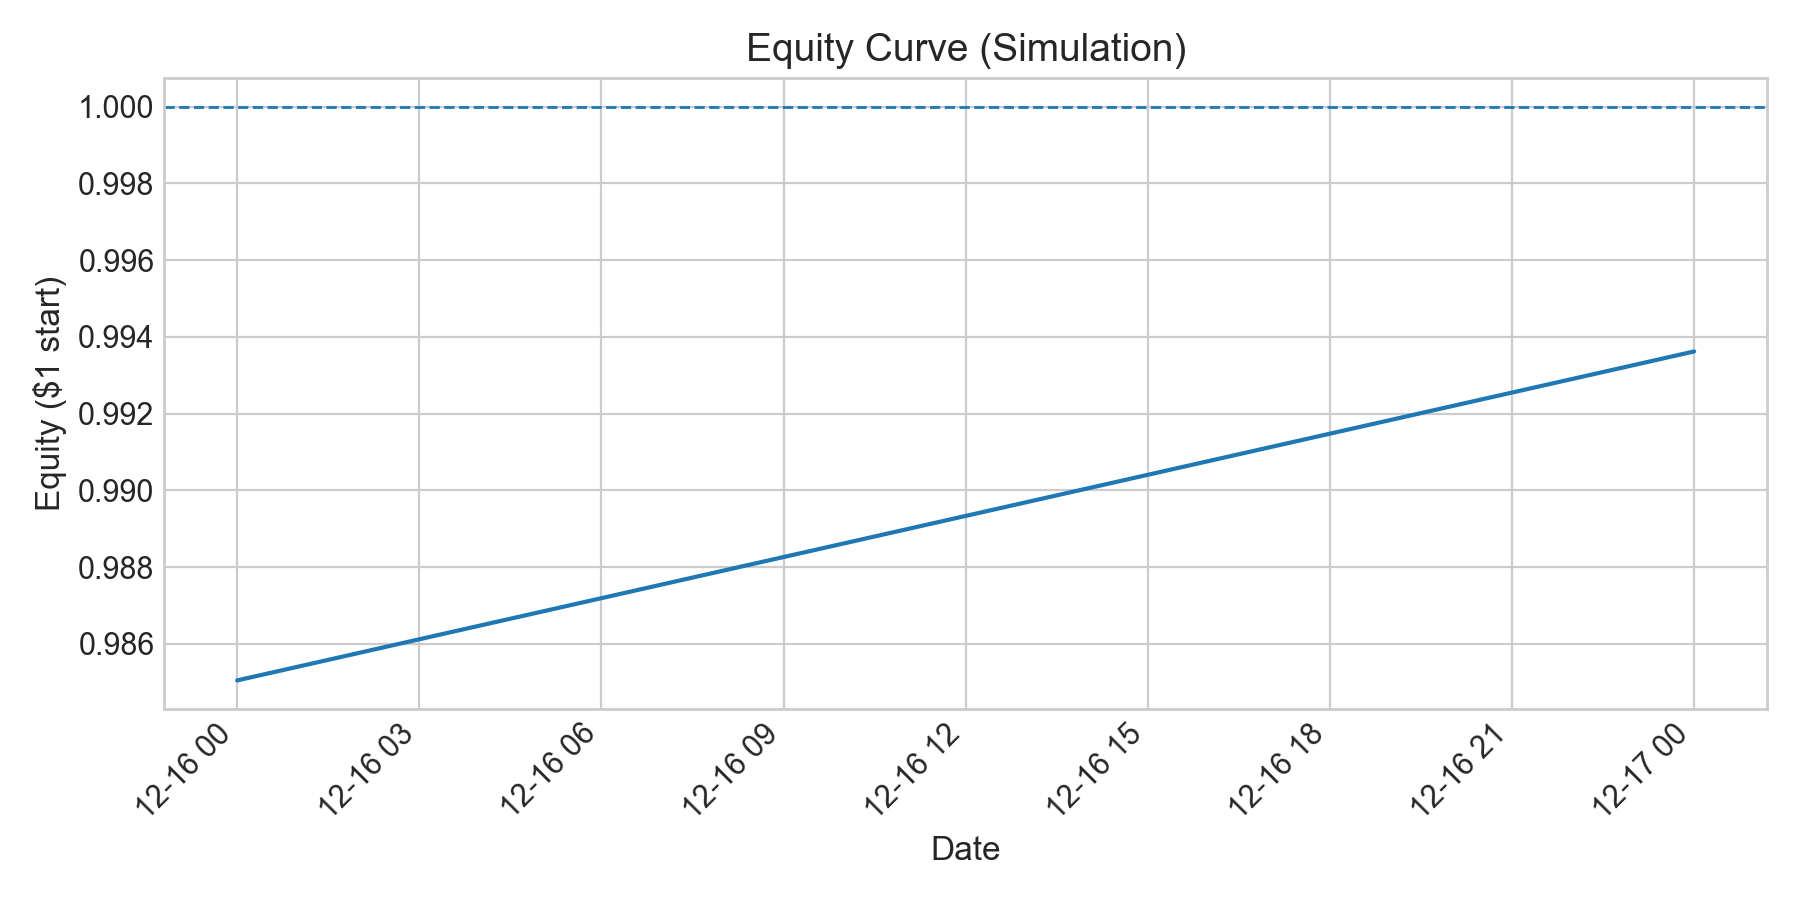
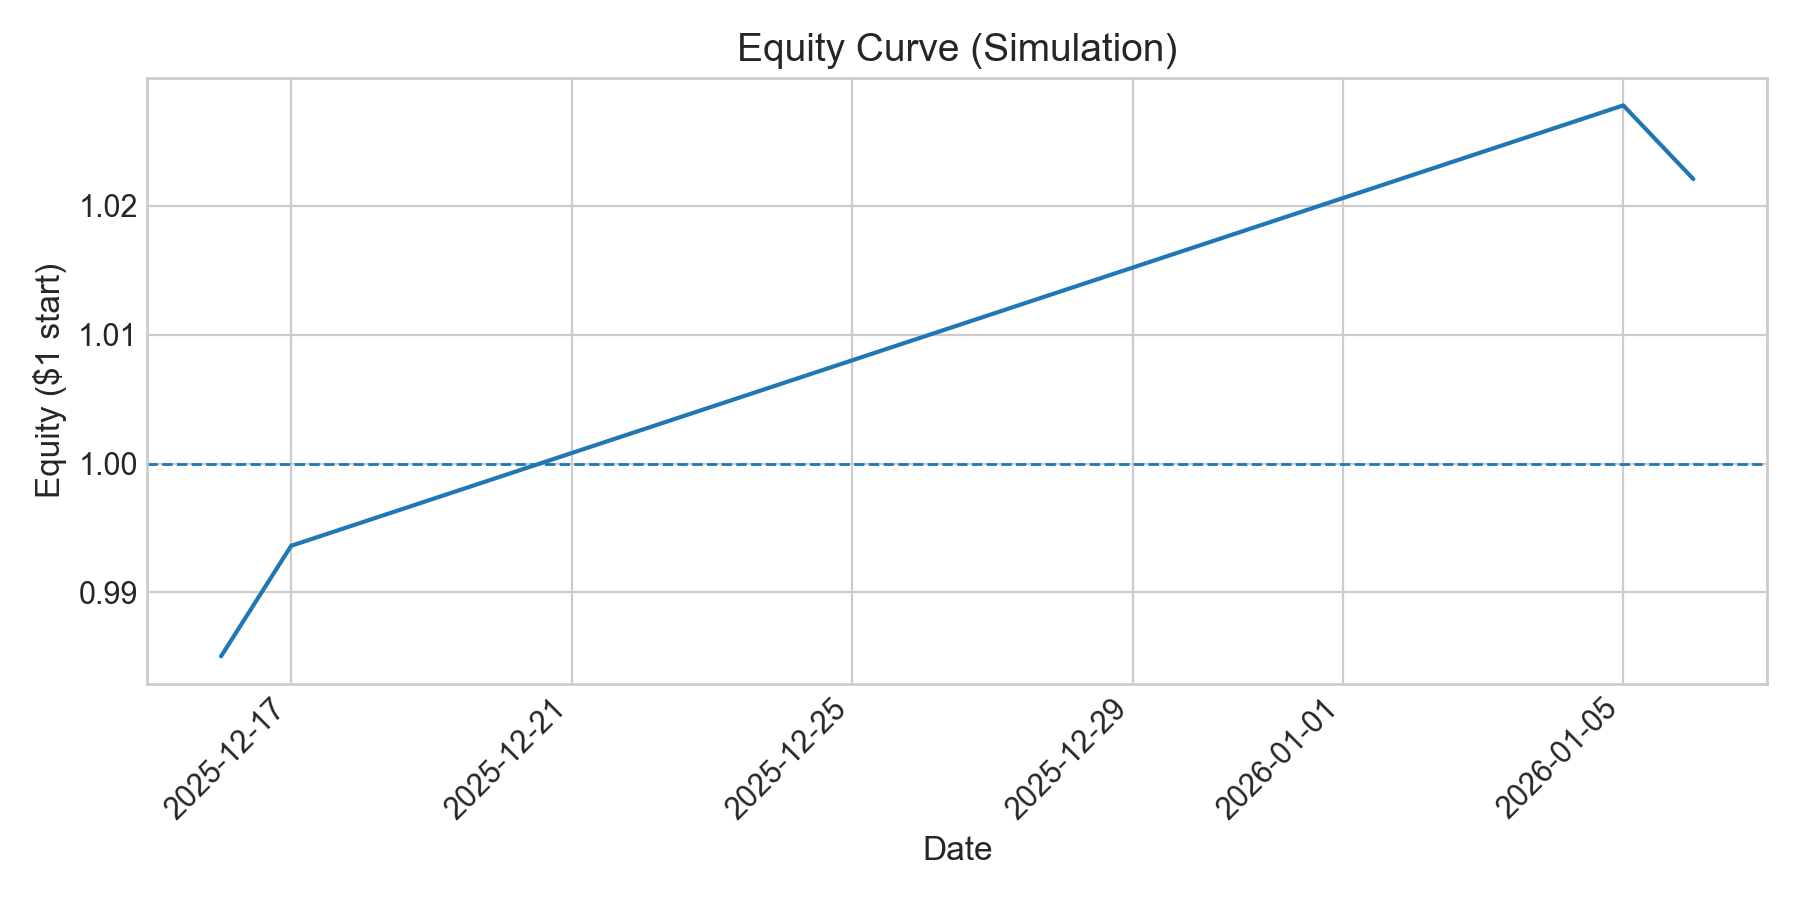
new charts/plots for 15 tickers, with equity columns data

diff --git a/src/viz/make_charts.py b/src/viz/make_charts.py
@@ -27,12 +27,23 @@ def plot_equity_curve():
         return
 
     df = pd.read_csv(path)
-    df = df.dropna(subset=["equity"])
-    if df.empty:
-        print("No equity data to plot (equity column is empty).")
-        return
 
-    df["date"] = pd.to_datetime(df["date"])
+    # If equity column is missing (can happen if another stage overwrote the file),
+    # reconstruct it from daily portfolio returns.
+    if "equity" not in df.columns:
+        if "portfolio_ret" not in df.columns:
+            print(f"Cannot plot equity: missing both 'equity' and 'portfolio_ret' in {path}")
+            print(f"Found columns: {list(df.columns)}")
+            return
+        df["portfolio_ret"] = pd.to_numeric(df["portfolio_ret"], errors="coerce").fillna(0.0)
+        df["equity"] = (1.0 + df["portfolio_ret"]).cumprod()
+
+    # Clean + sort
+    df["date"] = pd.to_datetime(df["date"], errors="coerce")
+    df = df.dropna(subset=["date", "equity"]).sort_values("date")
+    if df.empty:
+        print("No equity data to plot.")
+        return
 
     plt.figure()
     plt.plot(df["date"], df["equity"])
@@ -47,6 +58,7 @@ def plot_equity_curve():
     plt.savefig(out, dpi=200)
     plt.close()
     print(f"Wrote {out}")
+
 
 
 def plot_scatter_sentiment_vs_return():

diff --git a/src/backtest/sweep.py b/src/backtest/sweep.py
@@ -45,7 +45,7 @@ def run_sweep(
     ):
         res = simulate_equal_weight_portfolio(
             merged_df=df,
-            out_dir=Path("report"),  # it will overwrite portfolio_daily.csv each run (fine for now)
+            out_dir=Path("report") / "sweep_tmp",  # it will overwrite portfolio_daily.csv each run (fine for now)
             sent_thresh=float(sent_thresh),
             vol_thresh=float(vol_thresh),
             min_docs=int(min_docs),

diff --git a/report/day8_sweep.md b/report/day8_sweep.md
@@ -3,22 +3,22 @@
 This report sweeps simulator parameters to show sensitivity of results to thresholds.
 
 - rows_tested: 144
-- trades_range: 0 → 6
+- trades_range: 0 → 16
 
 ## Top configs (by trades, then total return)
 
 | sent_thresh | vol_thresh | min_docs | slippage_bps | trades | total_return | sharpe_ann | max_drawdown |
 |---:|---:|---:|---:|---:|---:|---:|---:|
-| 0.02 | 0.5 | 5 | 0 | 6 | -0.0064 | -4.1952 | 0.0000 |
-| 0.02 | 0.5 | 10 | 0 | 6 | -0.0064 | -4.1952 | 0.0000 |
-| 0.02 | 0.5 | 20 | 0 | 6 | -0.0064 | -4.1952 | 0.0000 |
-| 0.02 | 0.5 | 5 | 2 | 6 | -0.0068 | -4.4637 | 0.0000 |
-| 0.02 | 0.5 | 10 | 2 | 6 | -0.0068 | -4.4637 | 0.0000 |
-| 0.02 | 0.5 | 20 | 2 | 6 | -0.0068 | -4.4637 | 0.0000 |
-| 0.02 | 0.5 | 5 | 5 | 6 | -0.0074 | -4.8664 | 0.0000 |
-| 0.02 | 0.5 | 10 | 5 | 6 | -0.0074 | -4.8664 | 0.0000 |
-| 0.02 | 0.5 | 20 | 5 | 6 | -0.0074 | -4.8664 | 0.0000 |
-| 0.02 | 1.0 | 5 | 0 | 5 | -0.0139 | -13.6922 | 0.0000 |
+| 0.02 | 0.5 | 5 | 0 | 16 | 0.0221 | 4.8131 | -0.0056 |
+| 0.02 | 0.5 | 10 | 0 | 16 | 0.0221 | 4.8131 | -0.0056 |
+| 0.02 | 0.5 | 5 | 2 | 16 | 0.0212 | 4.6425 | -0.0058 |
+| 0.02 | 0.5 | 10 | 2 | 16 | 0.0212 | 4.6425 | -0.0058 |
+| 0.02 | 0.5 | 5 | 5 | 16 | 0.0200 | 4.3866 | -0.0061 |
+| 0.02 | 0.5 | 10 | 5 | 16 | 0.0200 | 4.3866 | -0.0061 |
+| 0.02 | 0.5 | 20 | 0 | 15 | 0.0240 | 5.2974 | -0.0037 |
+| 0.02 | 0.5 | 20 | 2 | 15 | 0.0232 | 5.1242 | -0.0039 |
+| 0.02 | 0.5 | 20 | 5 | 15 | 0.0220 | 4.8645 | -0.0042 |
+| 0.02 | 1.0 | 5 | 0 | 15 | 0.0144 | 3.1964 | -0.0056 |
 
 ## Notes
 - Very low trade counts can make Sharpe unstable (one bad day dominates).

diff --git a/report/day6_backtest.md b/report/day6_backtest.md
@@ -13,10 +13,10 @@ Parameters:
 - slippage_bps: 0.0
 
 Results:
-- signal_days (raw): 13
-- trades (executed): 6
-- sharpe_annual: -4.1952
-- max_drawdown: 0.0000
+- signal_days (raw): 47
+- trades (executed): 16
+- sharpe_annual: 4.8131
+- max_drawdown: -0.0056
 
 Files:
 - merged_table: report/day6_merged_table.csv
